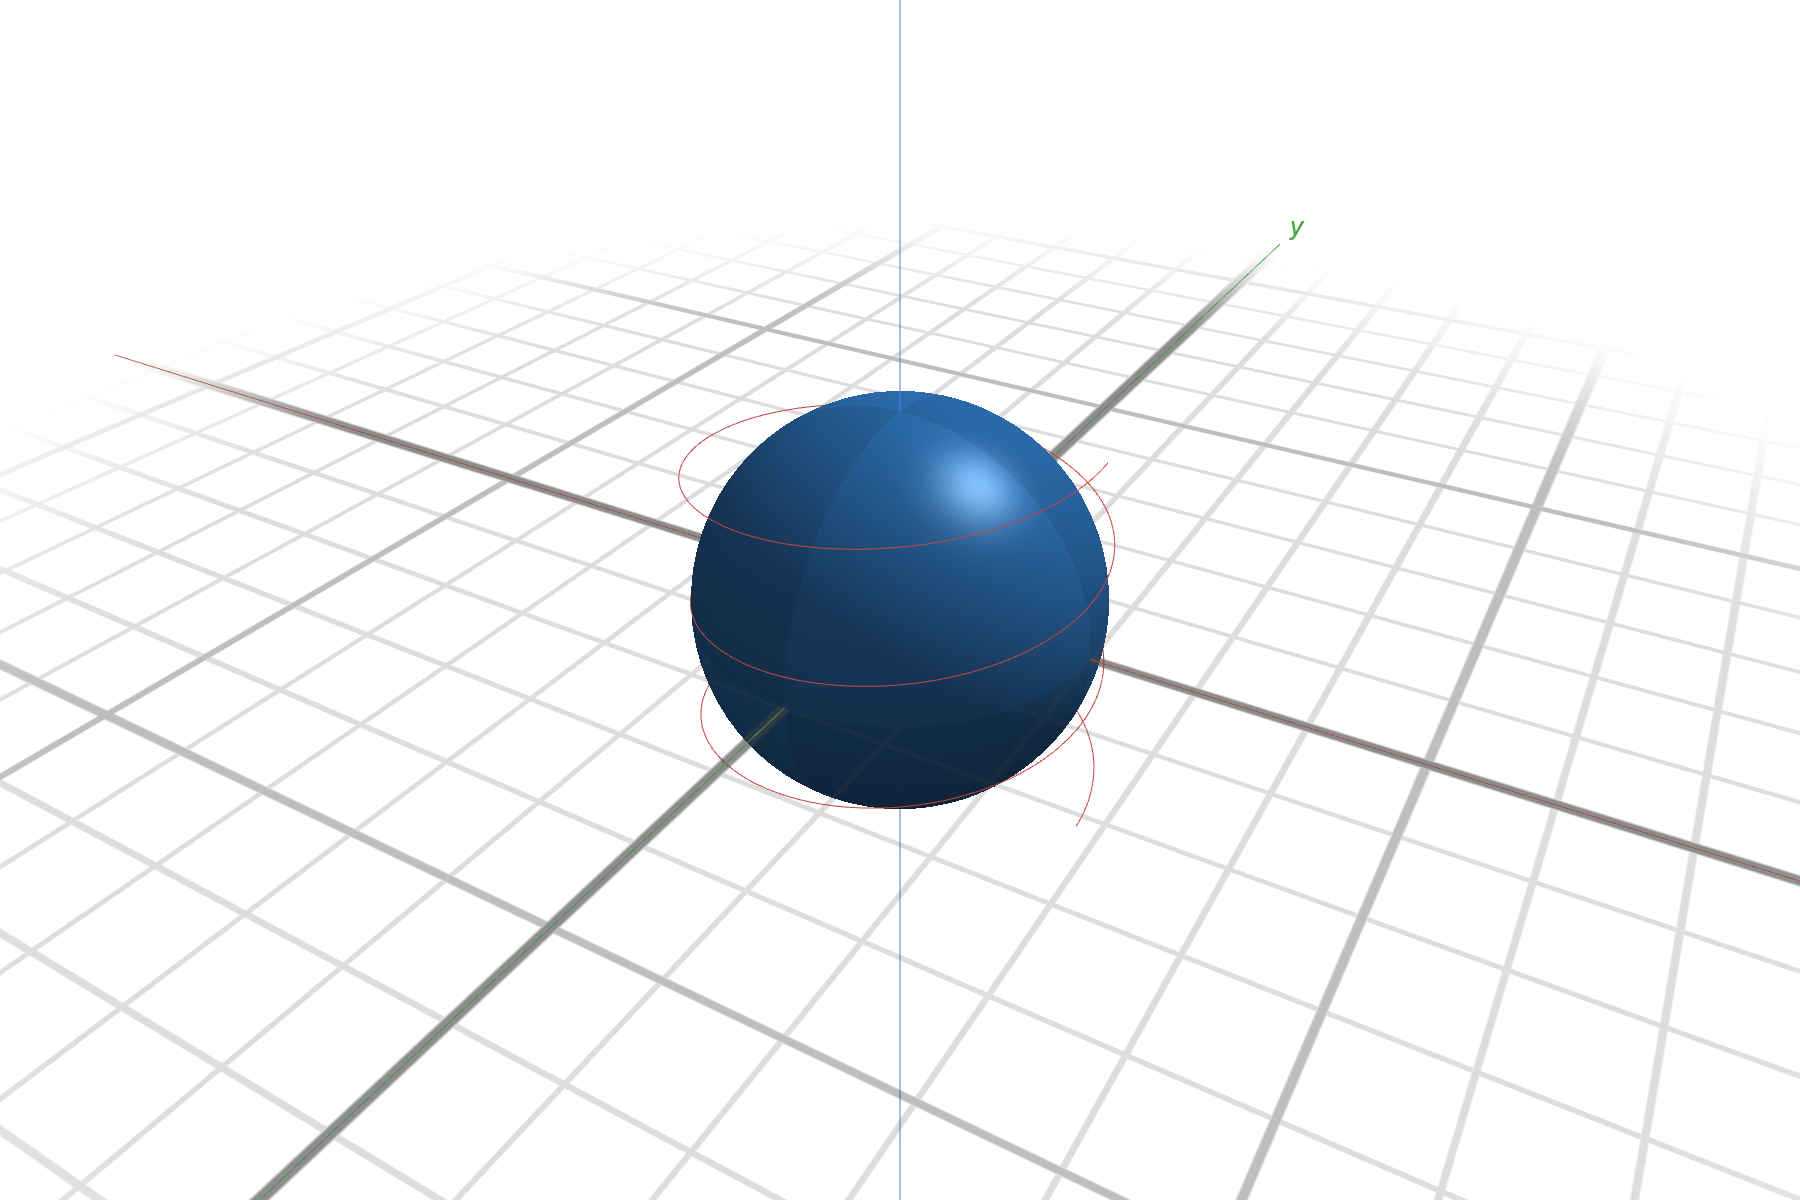
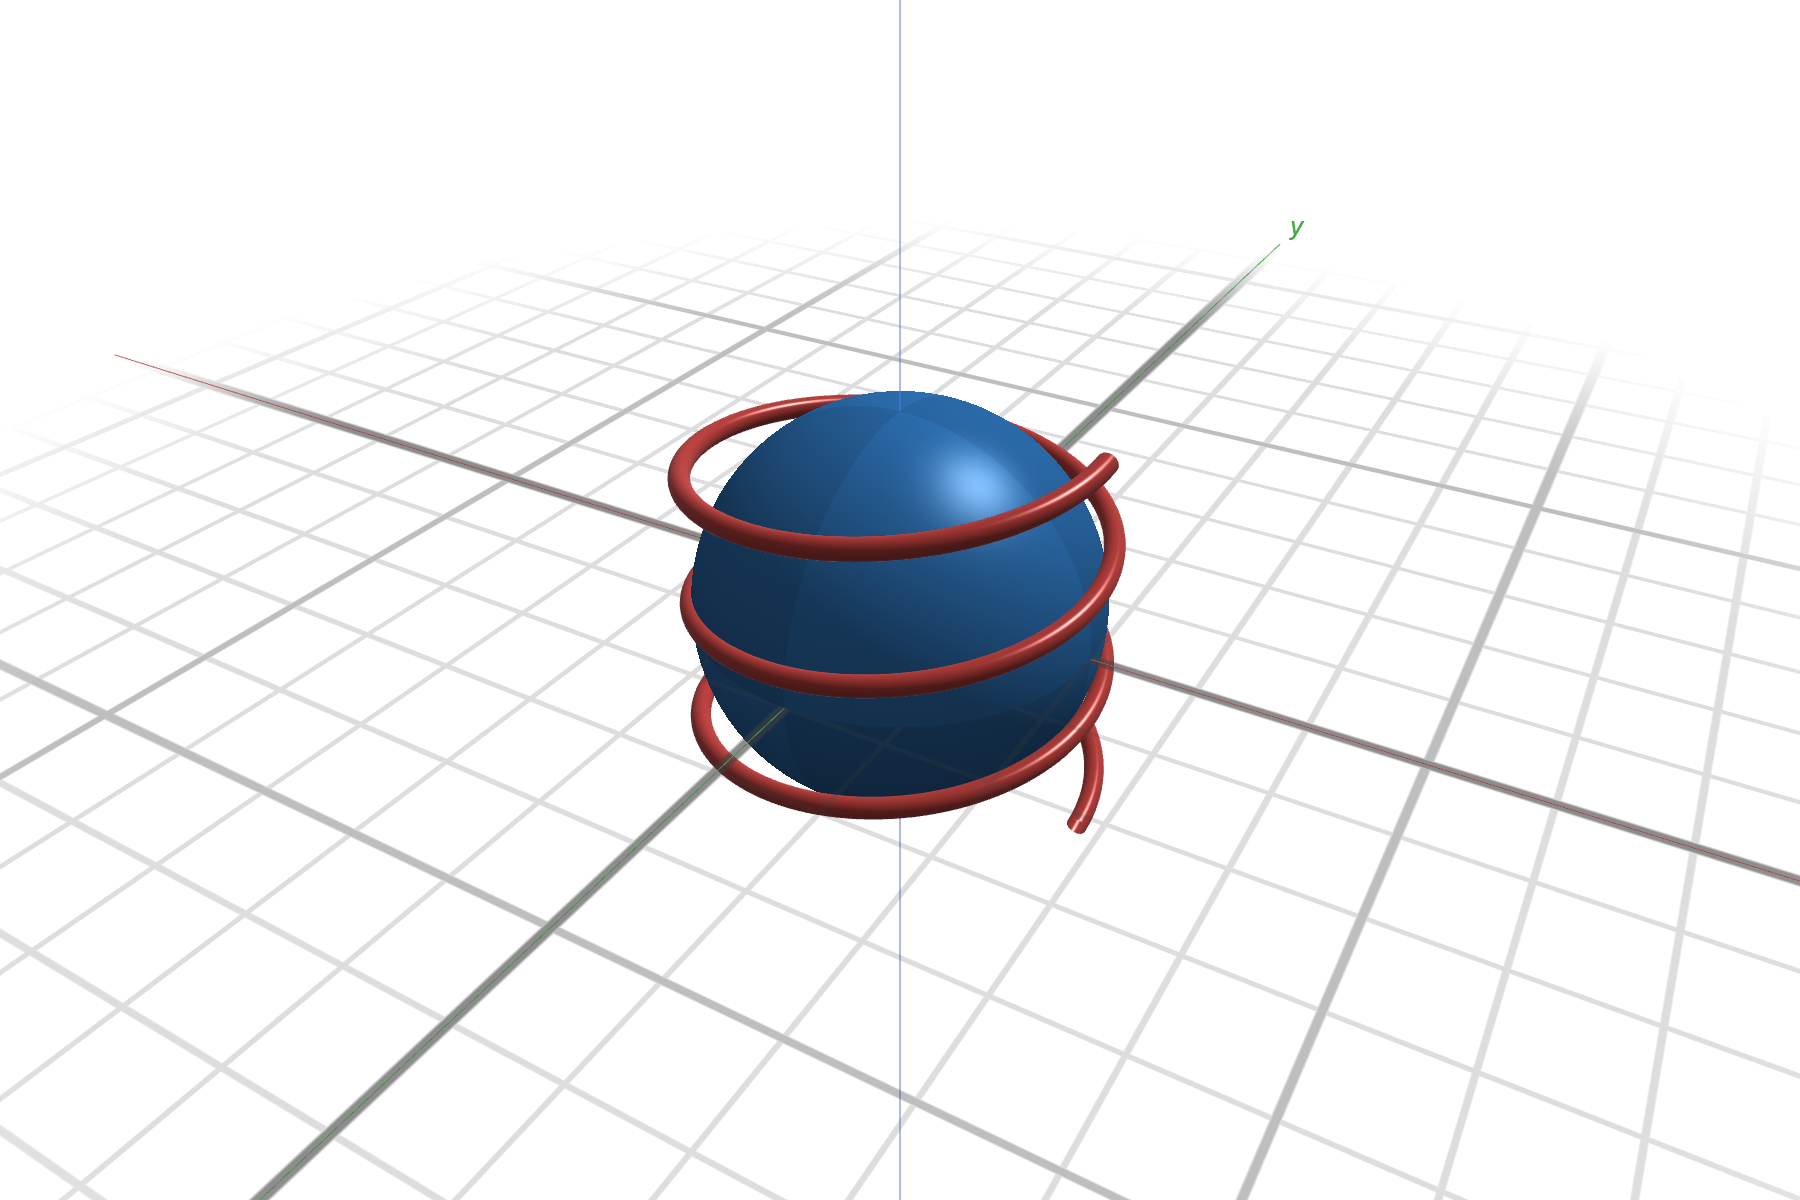
Add trefoil knot card to the about showcase
The sphere-helix card is re-rendered too: 3D curves now default to
tubes, so its screenshot changed.

Changed region(s): [[0.3733, 0.3083, 0.6222, 0.7092]]

diff --git a/web/about/showcase.ts b/web/about/showcase.ts
@@ -256,4 +256,11 @@ export const SHOWCASE: ShowcaseItem[] = [
     eqs: ['x^2 + y^2 + z^2 = 4', '(2cos(6pi u), 2sin(6pi u), 4u - 2)'],
     group: 'The third dimension',
   },
+  {
+    slug: 'trefoil',
+    title: 'Space curves are tubes',
+    blurb: '3D curves sweep a shaded tube — knots read at a glance, and curvature/torsion combs are a click away.',
+    eqs: ['(sin(2pi u) + 2sin(4pi u), cos(2pi u) - 2cos(4pi u), -sin(6pi u))'],
+    group: 'The third dimension',
+  },
 ];
